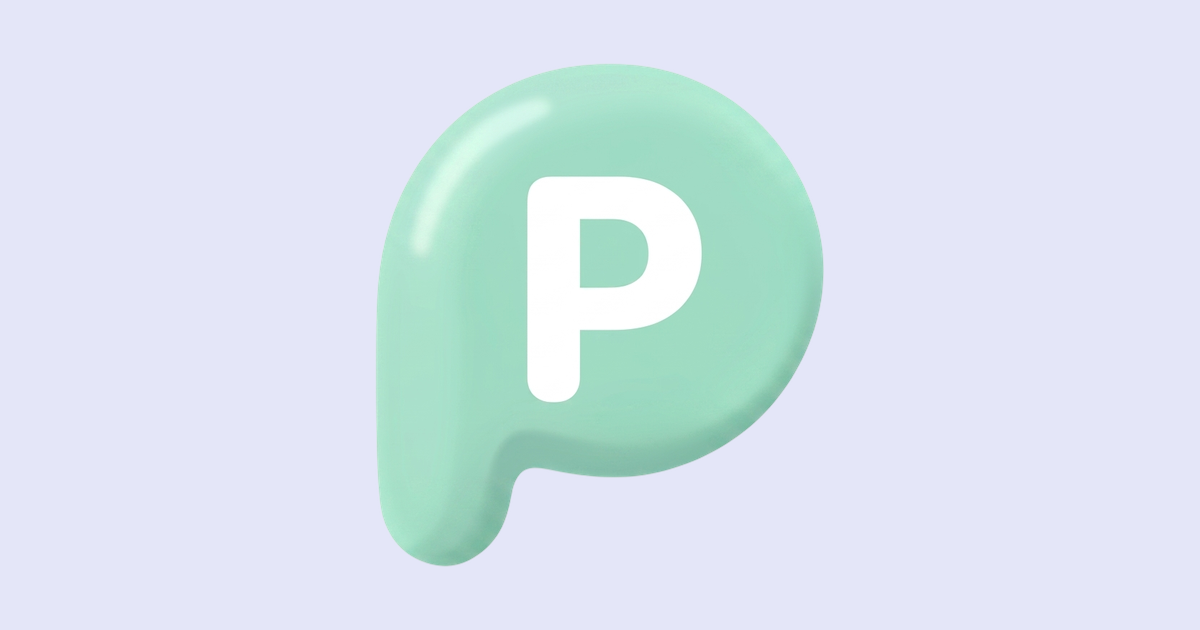
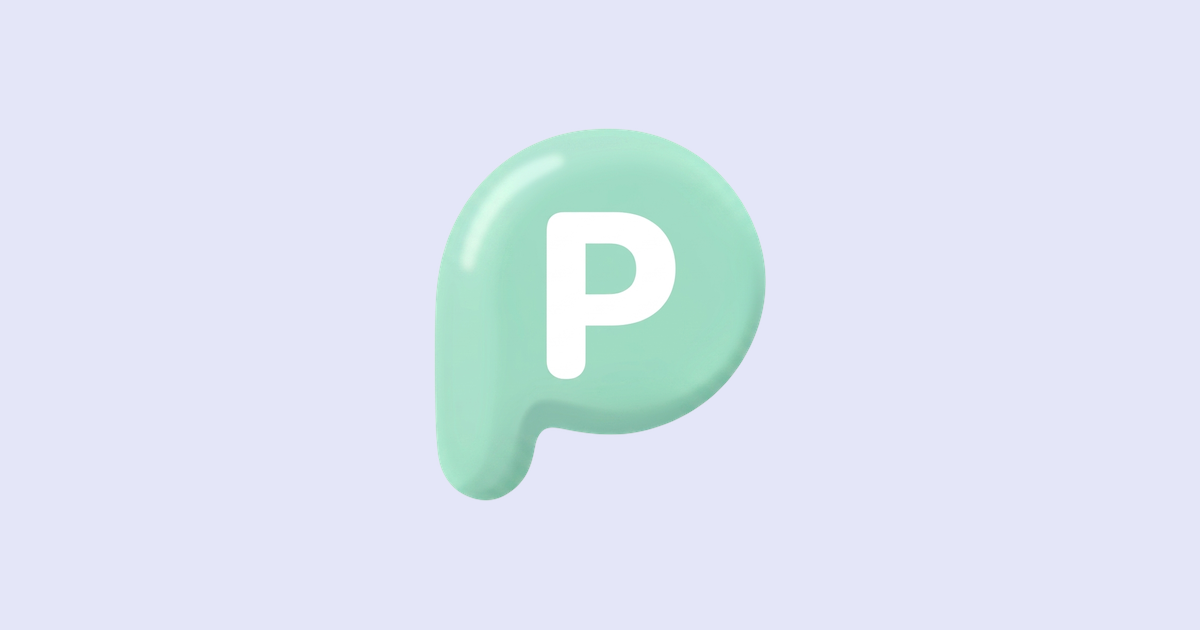
style: revert OG image size to match the exact dimensions from the preferred version to prevent native blurriness

Changed region(s): [[0.3083, 0.0905, 0.7092, 0.9048]]

diff --git a/generate-flawless.py b/generate-flawless.py
@@ -14,10 +14,15 @@ xmin, xmax = np.where(cols)[0][[0, -1]]
 cropped_logo = logo.crop((xmin, ymin, xmax + 1, ymax + 1))
 lilac_bg = (228, 230, 248, 255)
 
-def create_geometrically_centered_image(target_size, cropped_logo, bg_color):
+def create_geometrically_centered_image(target_size, cropped_logo, bg_color, exact_logo_height=None):
     img = Image.new('RGBA', target_size, bg_color)
-    max_logo_dim = min(target_size) * 0.8
-    scale = max_logo_dim / max(cropped_logo.width, cropped_logo.height)
+    
+    if exact_logo_height:
+        scale = exact_logo_height / cropped_logo.height
+    else:
+        max_logo_dim = min(target_size) * 0.8
+        scale = max_logo_dim / max(cropped_logo.width, cropped_logo.height)
+        
     lw = int(cropped_logo.width * scale)
     lh = int(cropped_logo.height * scale)
     logo_resized = cropped_logo.resize((lw, lh), Image.Resampling.LANCZOS)
@@ -26,12 +31,15 @@ def create_geometrically_centered_image(target_size, cropped_logo, bg_color):
     img.paste(logo_resized, (paste_x, paste_y), logo_resized)
     return img
 
+# Create high-res 512x512 PWA Icon (Keep it at 80% size, which they confirmed looks perfect)
 icon_512 = create_geometrically_centered_image((512, 512), cropped_logo, lilac_bg)
 icon_512.save('src/app/icon.png')
 icon_512.save('src/app/apple-icon.png')
 icon_512.save('public/icon.png')
 
-og_1200 = create_geometrically_centered_image((1200, 630), cropped_logo, lilac_bg)
+# Create high-res 1200x630 Open Graph Image
+# Use exact_logo_height = 373 to match the sharpness and size they loved in 5b34117!
+og_1200 = create_geometrically_centered_image((1200, 630), cropped_logo, lilac_bg, exact_logo_height=373)
 og_1200.save('public/og-image.png')
 
-print("All geometrically centered tight high-res images generated successfully!")
+print("Perfectly sized and centered images generated successfully!")
